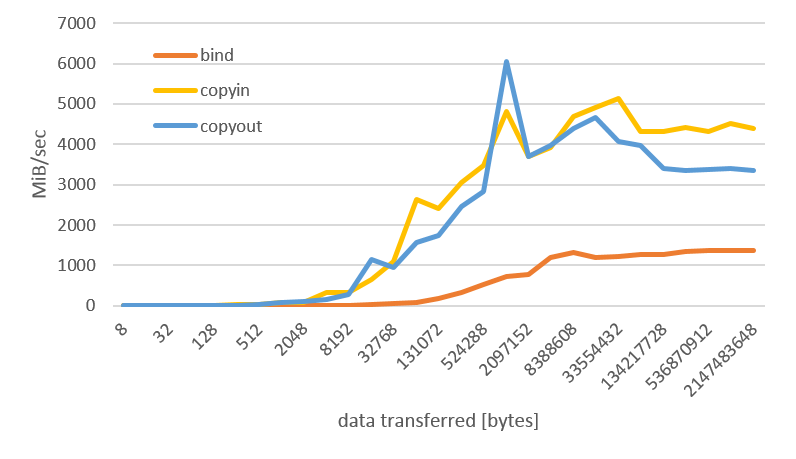
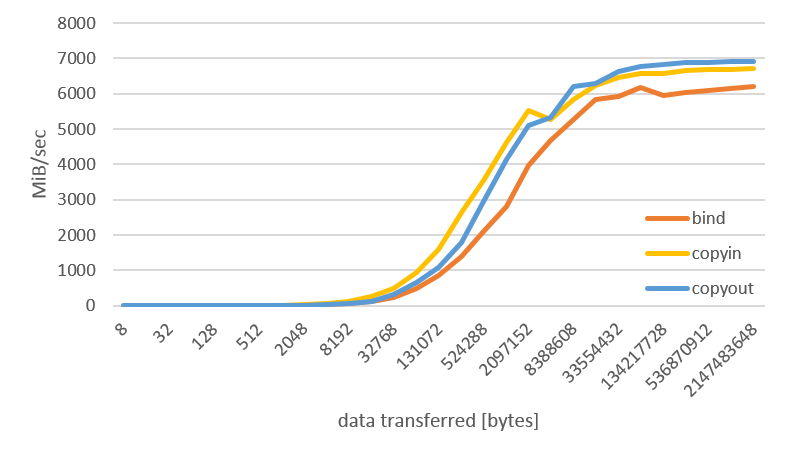
Draft text that discusses pyMIC performance.

diff --git a/papers/klemm_witherden/klemm_witherden.rst b/papers/klemm_witherden/klemm_witherden.rst
@@ -398,7 +398,7 @@ This provides the optimal implementation to execute matrix multiplies on the cop
 Performance Results
 -------------------
 
-To be written...
+**TODO:** To be written...
 
 Performance of pyMIC
 ````````````````````
@@ -406,14 +406,33 @@ Performance of pyMIC
 .. figure:: pyMIC_perf_bandwidth.png
    :scale: 60 %
 
-   Performance of the offloadded ``dgemm`` operation. :label:`pyMICPerfDgemm`
+   Bandwidth of the data-transfer operations of pyMIC (see [KlEn14]_). :label:`pyMICPerfBandwidth`
 
 
 .. figure:: pyMIC_perf_dgemm.png
    :scale: 60 %
 
-   Performance of the offloadded ``dgemm`` operation. :label:`pyMICPerfDgemm`
+   Performance of the offloadded ``dgemm`` operation(see [KlEn14]_). :label:`pyMICPerfDgemm`
 
+Figures :ref:`pyMICPerfBandwidth` shows the performance results of micro-benchmarks that measure the achieved bandwidth as reported in [KlEn14]_.
+The achieved bandwidth depends on the size of the data transfer.
+For short data transfers, latency of enqueuing the request and setting up the data transfer in the offload runtime dominates, so that the achieved bandwidth is low.
+With increasing the size of the transfer, latency becomes less important and thus bandwidth goes up until it saturates at the PCIe gen2 limit.
+The effective bandwidth of the bind operation is lower, because it involves the overhead of allocation of the offload buffer, while pure transfers (`copyin` and `copyout`) move data into existing buffers.
+
+Figure :ref:`pyMICPerfDgemm` depicts the GFLOPS rate of offloading the ``dgemm`` operation (cf. [KlEn14]_).
+The chart compares the MKL native ``dgemm`` operation of micro-benchmark written in C (`MKL`) with the performance of NumPy setup to use MKL (`Numpy (MKL)`) and the ``mydgemm`` kernel (`pyMIC (kernel only)` and `pyMIC (incl. transfers)`) for various quadratic matrix sizes.
+As can be seen the GFLOP rate of MKL quickly saturates at small matrix sizes because of the effective threading implementation used.
+The comparatively low performance of NumPy is attributed to several temporary copies that NumPy has to maintain to implement a full ``dgemm`` operation.
+Offloading kernel for small matrix sizes is not expected to yield any performance gain due to the latency of transfering small matrices from the host to the coprocessor.
+For matrices larger than 2048x2048, the coprocessor is able to compensate latency and to yield better performance than the host system.
+Naturally, the effective GFLOP rate is slightly lower if data transfers are taken into consideration.
+
+
+Performance of PyFR
+```````````````````
+
+**TODO:** Write this section.
 
 Conclusion and Future Work
 --------------------------
@@ -435,7 +454,7 @@ Peter Vincent and Freddie Witherden would like to thank the Engineering and Phys
 
 Intel, Xeon, and Xeon Phi are trademarks or registered trademarks of Intel Corporation or its subsidiaries in the United States and other countries.
 
-* Other names and brands are the property of their respective owners.
+\* Other names and brands are the property of their respective owners.
 
 Software and workloads used in performance tests may have been optimized for performance only on Intel microprocessors.
 Performance tests, such as SYSmark and MobileMark, are measured using specific computer systems, components, software, operations and functions.
